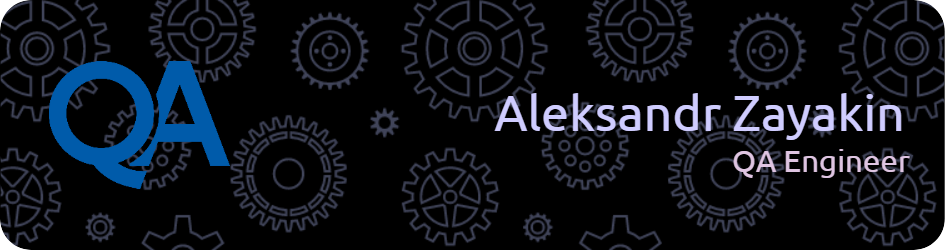
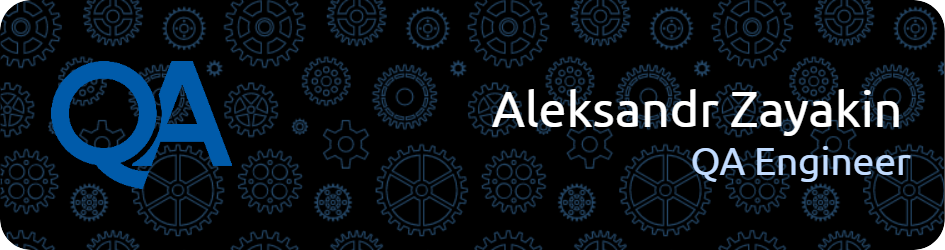
header

diff --git a/README.md b/README.md
@@ -1,4 +1,4 @@
-[![Header](https://github.com/alt015/alt015/blob/main/assets/header1.png)](https://disk.yandex.ru/d/gYQ2Zwtla9U7yA)
+[![Header](https://github.com/alt015/alt015/blob/main/assets/header.png)](https://disk.yandex.ru/d/gYQ2Zwtla9U7yA)
 
 # I`m begginer QA Engineer
 
